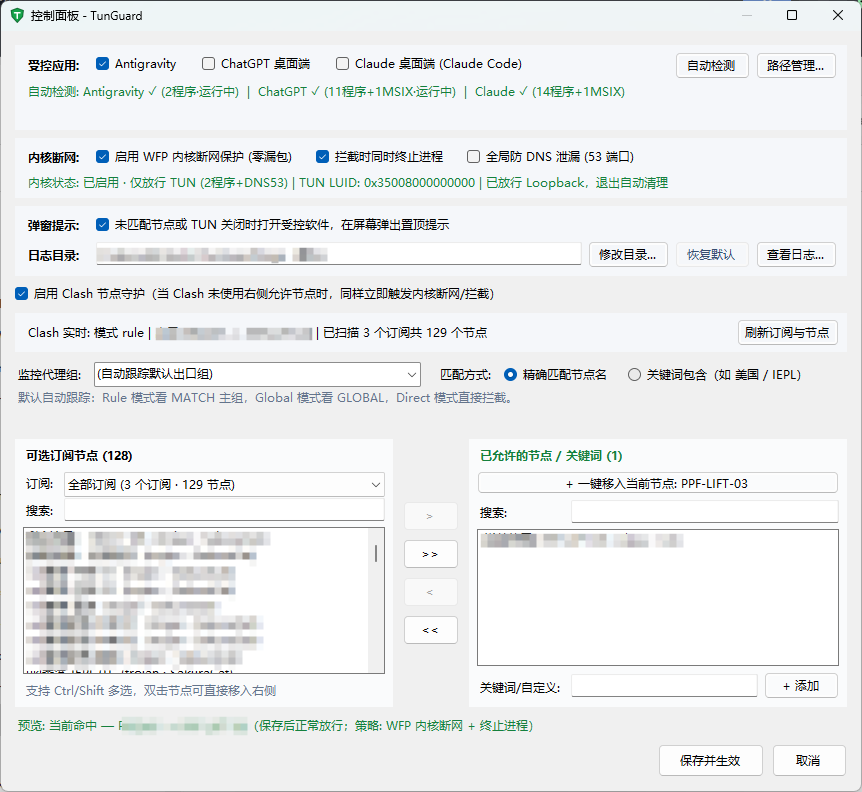
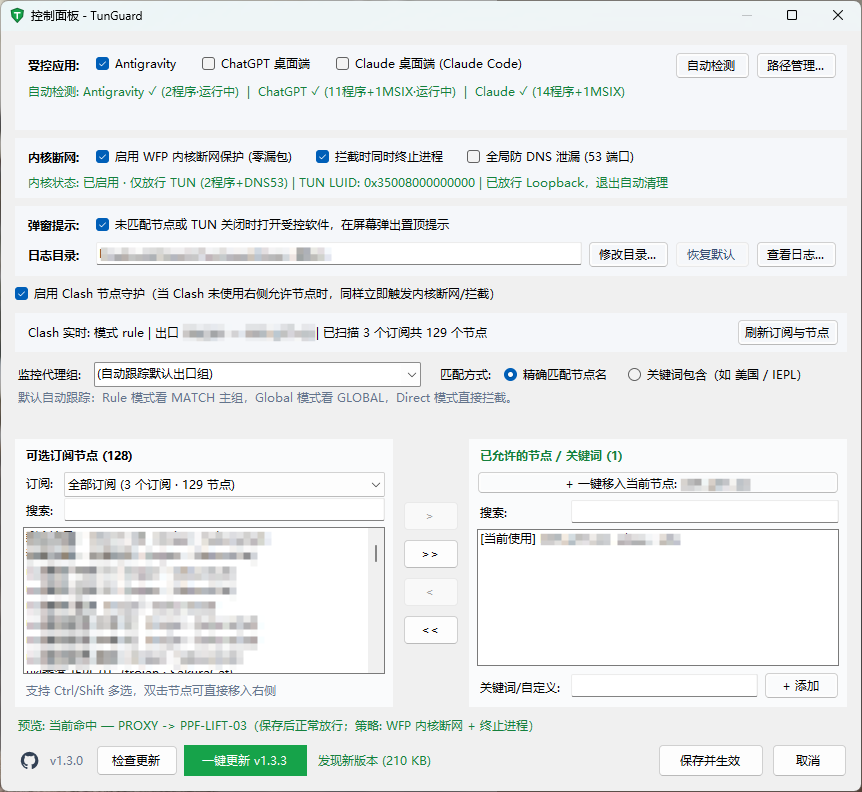
Update control panel screenshot and README for built-in auto-updater

diff --git a/README.md b/README.md
@@ -13,11 +13,11 @@
 
 ## 核心亮点
 
-- **零外部依赖 · 单文件 ~210 KB**：纯 C# + Win32 P/Invoke（`iphlpapi.dll` / `fwpuclnt.dll` / `userenv.dll`），直接利用 Windows 内置 `.NET Framework 4.x`（`csc.exe`）编译为单个原生 x64 可执行文件。
+- **零外部依赖 · 单文件 ~236 KB**：纯 C# + Win32 P/Invoke（`iphlpapi.dll` / `fwpuclnt.dll` / `userenv.dll`），直接利用 Windows 内置 `.NET Framework 4.x`（`csc.exe`）编译为单个原生 x64 可执行文件。
 - **内核级零漏包兜底（WFP）**：在 Windows 内核 `ALE_AUTH_CONNECT`（IPv4 + IPv6）层常驻受控应用出站规则——仅放行 TUN 虚拟网卡与 Loopback，TUN 掉线瞬间**零时间窗**丢弃物理网卡直连流量；支持**纯内核断网保留进程**或**内核断网 + 强杀双重兜底**。
 - **免配置直连 Clash 内核**：自动探测并复用 Clash Verge 的 Windows Named Pipe（`\\.\pipe\verge-mihomo-*`），**无需开启外部 HTTP 控制器**即可读取实时节点链路（支持自动回退 TCP 外部控制器）。
 - **极低后台开销**：事件驱动 + HTTP/1.1 Keep-Alive 单组定向查询 + 零反射轻量 JSON 提取，单次节点巡检 `< 0.5 ms`。
-- **开箱即用 · 完整可视化管理**：提供受控应用自动识别与自定义路径管理、全订阅节点左右穿梭框、屏幕置顶拦截提醒卡片、异步日志系统与分级日志查看器。
+- **开箱即用 · 完整可视化管理与一键更新**：提供受控应用自动识别与自定义路径管理、全订阅节点左右穿梭框、屏幕置顶拦截提醒卡片、异步分级日志查看器，以及内置 GitHub Releases 检查更新与 SHA-256 校验一键原地升级。
 
 ---
 
@@ -27,7 +27,7 @@
   <img src="docs/control-panel.png" alt="TunGuard 控制面板运行截图" width="820" />
 </p>
 
-> 控制面板集中提供受控应用自动检测与路径管理、WFP 内核策略开关、置顶弹窗与日志目录配置，以及按订阅筛选的节点穿梭框与保存前实时命中预览。
+> 控制面板集中提供受控应用自动检测与路径管理、WFP 内核策略开关、置顶弹窗与日志目录配置、按订阅筛选的节点穿梭框与保存前实时命中预览，以及底部的 GitHub 仓库入口、版本检测与一键更新。
 
 ---
 
@@ -123,7 +123,15 @@ TunGuard 支持三种防护执行模式，可在控制面板随时切换：
 | **红色** | 已拦截 | TUN 未开启或当前节点不匹配，已通过 WFP 内核阻断出站（及按配置终止受控进程） |
 | **灰色** | 已暂停 | 已临时暂停监控与拦截，自动清空 WFP 内核规则并跳过节点轮询 |
 
-### 5. 单实例保护 & 原生开机自启
+### 5. 内置版本检测与一键安全自更新
+
+控制面板底部栏内置 GitHub 图标直达仓库主页、当前版本展示与在线更新能力：
+
+- **双通道版本检测**：打开控制面板时后台静默检测更新（内置 `10 min` 缓存），也可点击 **「检查更新」** 强制刷新；优先请求 GitHub Releases API，遇到接口限流（HTTP `403 / 429`）或异常时自动回退至 `releases/latest` 重定向 `HEAD` 解析。
+- **完整校验链与可取消下载**：发现新版本后展示绿色 **「一键更新 vX.Y.Z」** 按钮与变更摘要；下载前预检目录写权限、实时反馈进度并支持中途取消，下载完成后依次通过**文件体积核对 → PE 头 (`MZ`) 校验 → `SHA256SUMS.txt` SHA-256 哈希验证**。
+- **原位热替换与失败自动回滚**：将运行中的旧版备份为 `.old` 后把已校验的新版本移入原路径（替换失败自动回滚旧版，绝不丢失程序文件），随后干净释放单实例互斥锁与 WFP 动态会话并自动重启新版本，启动后后台异步清理残留的 `.old*` / `.new*` 临时文件；若因网络或权限受限更新失败，可一键打开 GitHub Releases 页面手动下载。
+
+### 6. 单实例保护 & 原生开机自启
 
 - **单实例互斥锁**：重复启动不会多开后台进程，而是唤醒已有实例通过托盘气泡展示当前守护与 WFP 内核状态。
 - **原生 Task Scheduler 2.0 COM 自启**：右键勾选 **「开机自动启动」**，直接通过 `Schedule.Service` COM API 注册计划任务 `ClashTunGuard`（`<RunLevel>HighestAvailable</RunLevel>` 自动提权激活 WFP、支持电池供电、无 72 小时超时限制、不拉起隐藏 `schtasks.exe`）。
@@ -141,7 +149,7 @@ TunGuard 支持三种防护执行模式，可在控制面板随时切换：
 
 ### 1. 获取程序（下载 Release 或本地编译）
 
-- **方式一（推荐）**：直接前往 [GitHub Releases](https://github.com/wdnmd123-zzz/TunGuard/releases) 下载最新构建的 `TunGuard.exe`（或 `TunGuard-vX.Y.Z-win-x64.zip`）与 `SHA256SUMS.txt`；每次推送源码更新到 `main` 分支都会由 GitHub Actions 自动构建并发布新版本。
+- **方式一（推荐）**：直接前往 [GitHub Releases](https://github.com/wdnmd123-zzz/TunGuard/releases) 下载最新构建的 `TunGuard.exe`（或 `TunGuard-vX.Y.Z-win-x64.zip`）与 `SHA256SUMS.txt`；每次推送源码更新到 `main` 分支都会由 GitHub Actions 自动构建并发布新版本。后续升级可直接在控制面板左下角点击 **「检查更新」 → 「一键更新」** 自动完成校验替换与重启。
 - **方式二（本地编译）**：在项目根目录运行：
 
 ```powershell
@@ -277,7 +285,7 @@ Select-String -Path .\wfp_filters.xml -Pattern "TunGuard WFP Kill Switch"
 
 | 文件 / 目录 | 说明 |
 | --- | --- |
-| [`TunGuard.cs`](TunGuard.cs) | 完整单文件源码（WFP 内核 Kill Switch、三层应用路径与 MSIX 包解析器、四重 TUN 监测、Mihomo Keep-Alive IPC 客户端、全订阅解析器、Win32 毫秒级进程守护、置顶拦截弹窗、异步日志与查看器、Task Scheduler COM 自启管理、系统托盘与控制面板 UI） |
+| [`TunGuard.cs`](TunGuard.cs) | 完整单文件源码（WFP 内核 Kill Switch、三层应用路径与 MSIX 包解析器、四重 TUN 监测、Mihomo Keep-Alive IPC 客户端、全订阅解析器、Win32 毫秒级进程守护、置顶拦截弹窗、异步日志与查看器、GitHub 在线检测与 SHA-256 一键自更新、Task Scheduler COM 自启管理、系统托盘与控制面板 UI） |
 | [`build.ps1`](build.ps1) | 生成盾牌图标 `TunGuard.ico` 并调用 `csc.exe` 编译 `TunGuard.exe` 的构建脚本 |
 | [`app.manifest`](app.manifest) | Windows 应用程序清单（`highestAvailable` 权限与 Per-Monitor V2 DPI 感知） |
 | [`.github/workflows/release.yml`](.github/workflows/release.yml) | GitHub Actions 自动构建、版本递增与 Release 发布工作流（附带 `SHA256SUMS.txt`） |
